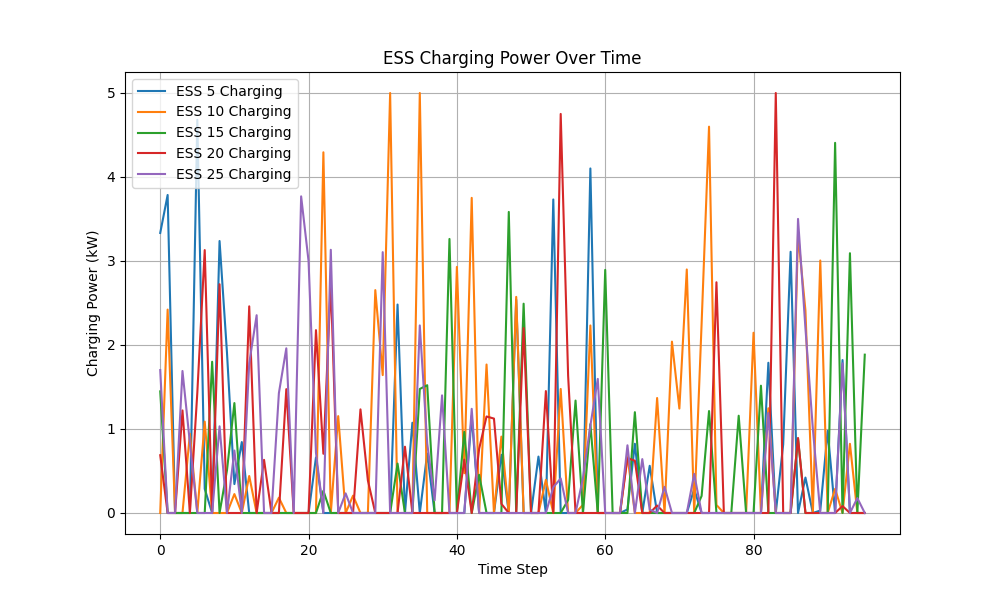
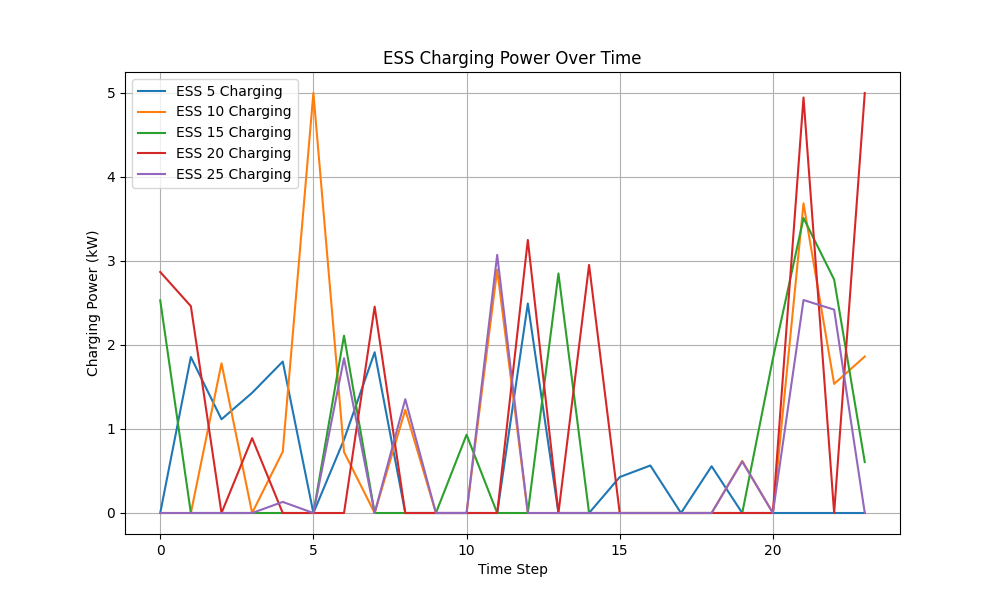
Fix the data

diff --git a/run_env.py b/run_env.py
@@ -54,7 +54,7 @@ n_episodes = 1
 
 for e in range(n_episodes):
     state, global_state = env.reset()
-    max_steps = 96
+    max_steps = env_config_dict['episode_limit']
     episode_reward = 0
 
     # Start timer for episode
